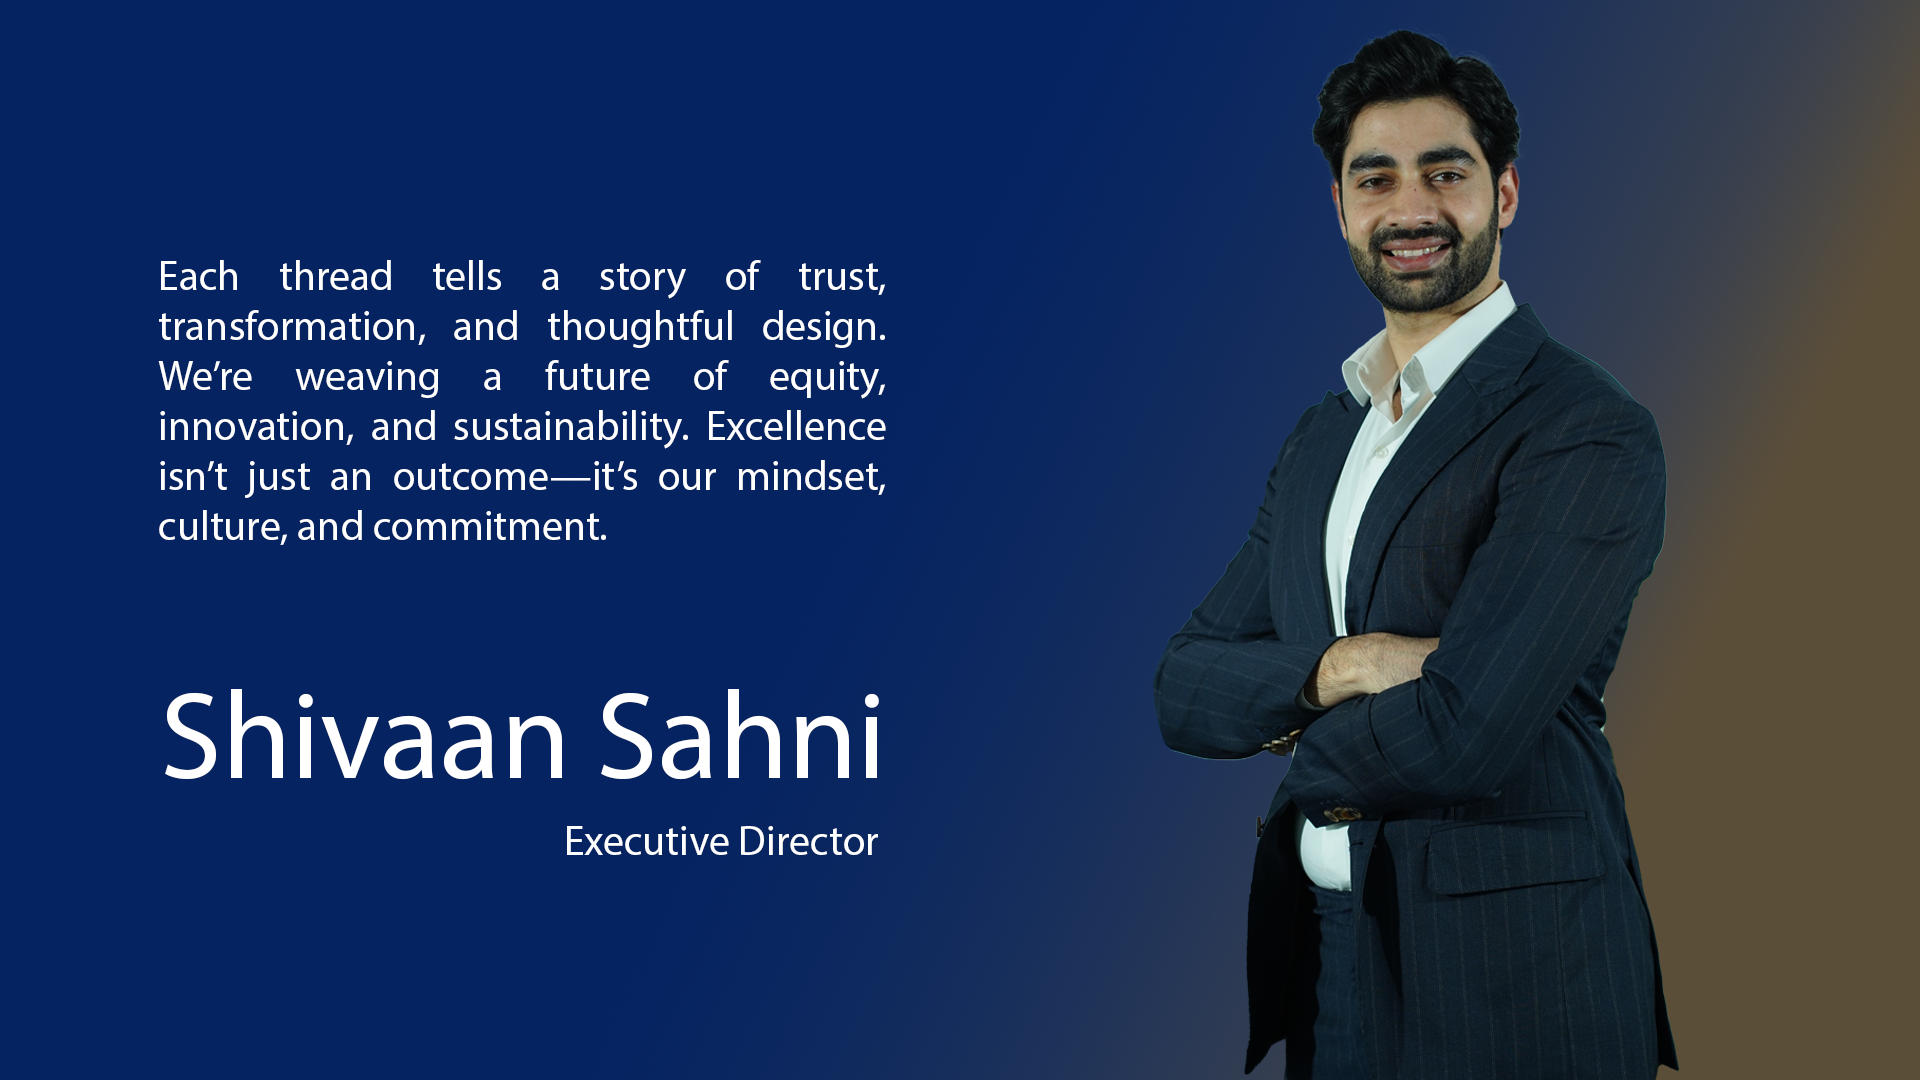
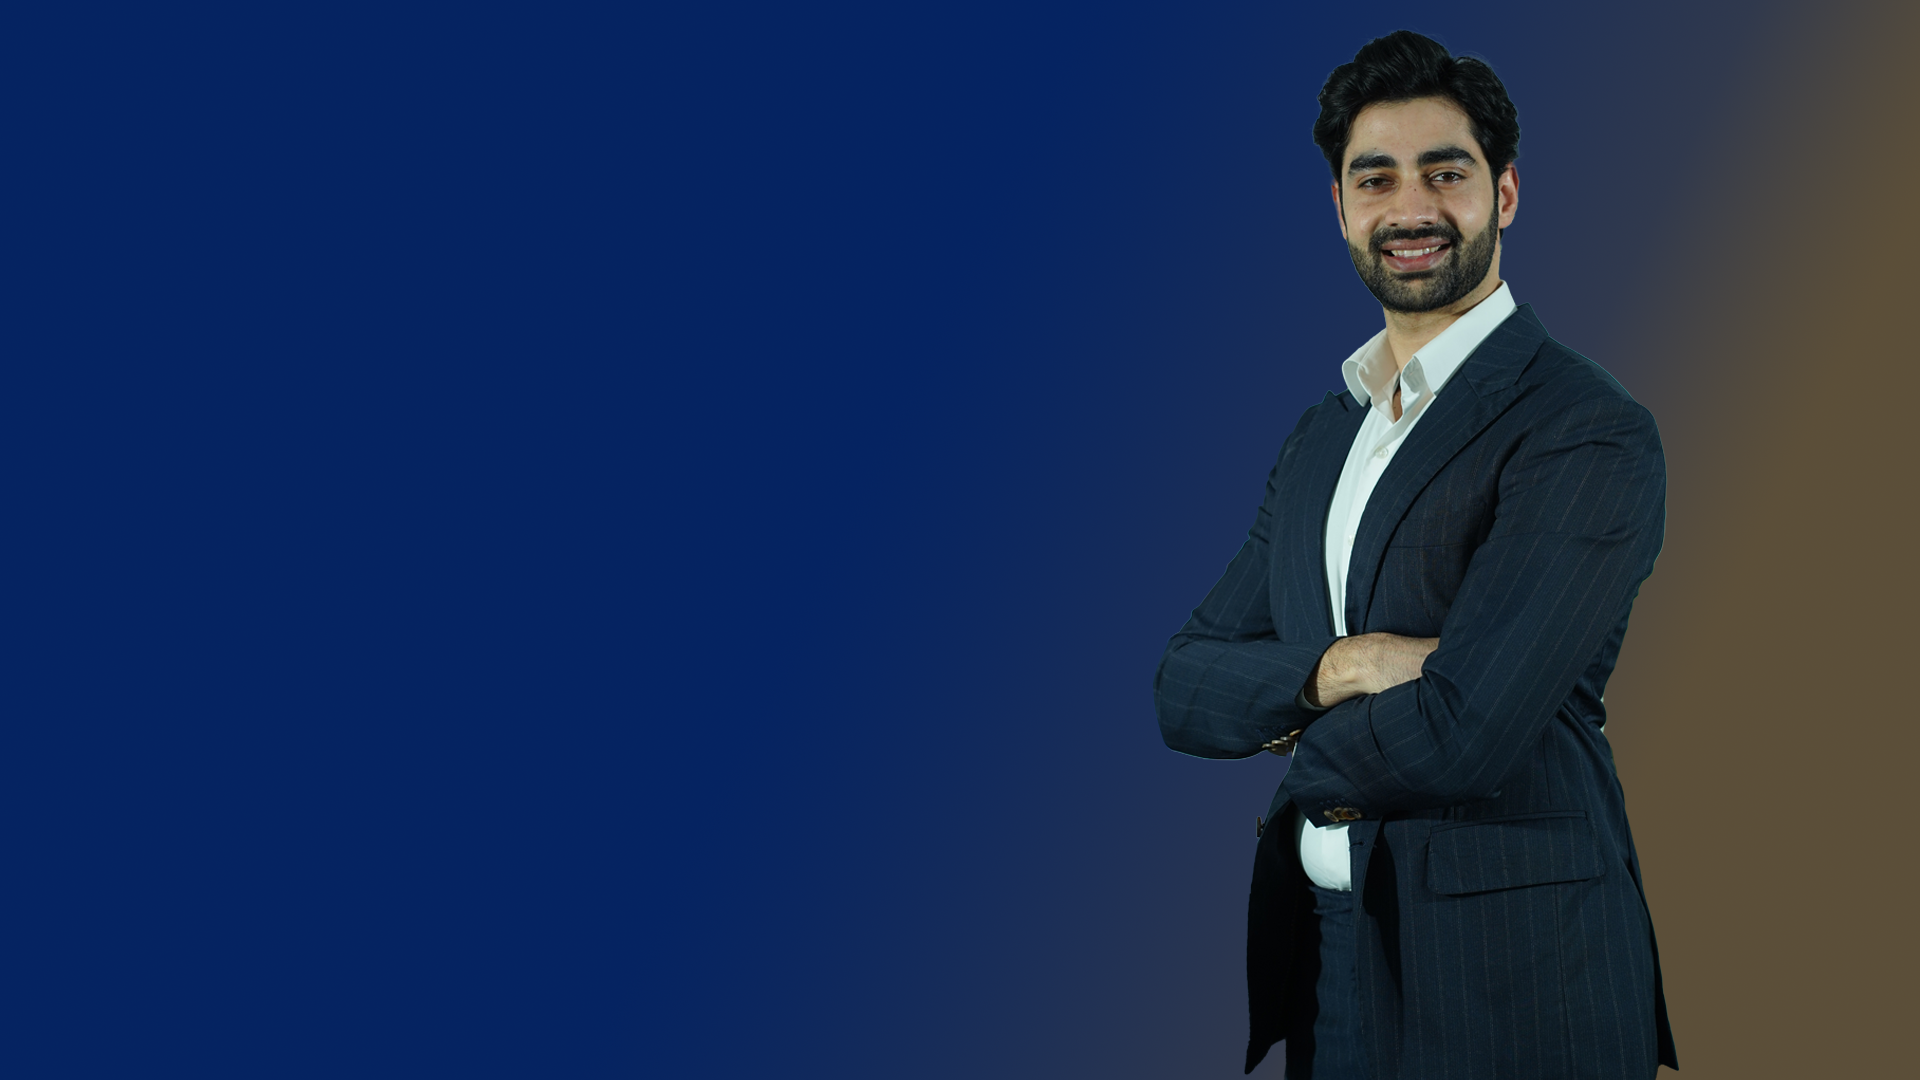
..

Changed region(s): [[0.0625, 0.2444, 0.4688, 0.5194], [0.0625, 0.6417, 0.4688, 0.7333], [0.2812, 0.7639, 0.4688, 0.7944]]

diff --git a/src/pages/ourStory/VisionMission.jsx b/src/pages/ourStory/VisionMission.jsx
@@ -22,7 +22,7 @@ import DirectorBg2 from "../../assets/Founders/bg 02.png";
 import RajanPng from "../../assets/Founders/rajan.png";
 import NavinPng from "../../assets/Founders/navin.png";
 import ShivaanPng from "../../assets/Founders/shivaan.png";
-import SidharthPng from "../../assets/Founders/sidharth1.png";
+import SidharthPng from "../../assets/Founders/Sidharth.png";
 
 const labels = {
     "#vision-values": "VisionValues",
@@ -250,9 +250,6 @@ export default function VisionMission() {
                         </motion.div>
                     </div>
                 </div>
-                {/* <h2 className="w-[90%] mx-auto py-16 px-6 md:px-20 text-3xl sm:text-4xl md:text-5xl text-[#01276a] font-semibold">
-                    Vision & Mission
-                </h2> */}
                 <div
                     className="relative w-full h-[100vh] mt-4 flex items-center justify-center bg-cover bg-center"
                     style={{ backgroundImage: `url(${visionMission})` }}
@@ -333,32 +330,33 @@ export default function VisionMission() {
                 >
                     {directors.map((director, i) => (
                         <SwiperSlide key={i}>
-                            <div className="relative">
-                                {/* background image */}
-                                <img
-                                    src={director.bg}
-                                    alt="Director background"
-                                    className="w-full object-contain"
-                                />
-                                {/* <div className="absolute top-0 left-0 inset-0 bg-transparent w-full h-full">
-                                    <img
-                                        src={director.img}
-                                        alt={director.name}
-                                        className="h-full w-full"
-                                    />
+                            <div
+                                className="w-full bg-contain bg-center"
+                                style={{
+                                    backgroundImage: `url(${director.bg})`,
+                                    aspectRatio: "16/9", // image ratio wise height ...................
+                                }}
+                            >
+                                <div className="bg-transparent w-full h-full flex items-center">
                                     <div
                                         className={`w-[50%] ${
                                             director.id === 2 ? "hidden" : ""
-                                        } absolute top-0 inset-0 py-10 flex items-center`}
+                                        } py-10 flex items-center`}
                                     >
                                         <div className="w-[90%] ml-auto flex flex-col items-end justify-center">
-                                            <div className="2xl:text-2xl xl:text-xl lg:text-lg md:text-md text-[8px] text-white md:font-semibold text-justify leading-relaxed 2xl:w-[80%] xl:w-[90%] lg:w-[95%] w-full">
+                                            <div className="2xl:text-3xl xl:text-2xl md:text-xl sm:text-[12px] text-[8px] text-white text-justify leading-loose 2xl:w-[80%] xl:w-[90%] lg:w-[95%] w-full">
+                                                <span className="2xl:text-4xl xl:text-3xl lg:text-2xl md:text-xl text-md font-semibold">
+                                                    “
+                                                </span>
                                                 {director.message}
+                                                <span className="2xl:text-4xl xl:text-3xl lg:text-2xl md:text-xl text-md font-semibold">
+                                                    ”
+                                                </span>
                                             </div>
-                                            <h1 className="text-white w-full text-end 2xl:text-6xl xl:text-5xl lg:text-4xl md:text-3xl text-lg font-semibold 2xl:mt-20 xl:mt-10 md:mt-5 mt-2">
+                                            <h1 className="text-white w-full text-end 2xl:text-7xl xl:text-6xl lg:text-5xl md:text-4xl text-xl font-semibold 2xl:mt-20 xl:mt-10 md:mt-5 mt-2">
                                                 {director.name}
                                             </h1>
-                                            <h3 className="text-white w-full text-end 2xl:text-2xl xl:text-xl lg:text-lg md:text-md text-[8px] md:font-semibold xl:mt-5 md:mt-2">
+                                            <h3 className="text-white w-full text-end 2xl:text-4xl xl:text-3xl lg:text-2xl md:text-xl text-lg md:font-semibold xl:mt-5 md:mt-2">
                                                 {director.role}
                                             </h3>
                                         </div>
@@ -366,21 +364,27 @@ export default function VisionMission() {
                                     <div
                                         className={`w-[50%] ml-auto ${
                                             director.id === 1 ? "hidden" : ""
-                                        } absolute top-0 inset-0 py-10 flex items-center`}
+                                        } py-10 flex items-center`}
                                     >
                                         <div className="w-[90%] mr-auto flex flex-col items-start justify-center">
-                                            <div className="2xl:text-2xl xl:text-xl lg:text-lg md:text-md text-[8px] text-white md:font-semibold text-justify leading-relaxed 2xl:w-[80%] xl:w-[90%] lg:w-[95%] w-full">
+                                            <div className="2xl:text-3xl xl:text-2xl md:text-xl sm:text-[12px] text-[8px] text-white text-justify leading-loose 2xl:w-[80%] xl:w-[90%] lg:w-[95%] w-full">
+                                                <span className="2xl:text-4xl xl:text-3xl lg:text-2xl md:text-xl text-md font-semibold">
+                                                    “
+                                                </span>
                                                 {director.message}
+                                                <span className="2xl:text-4xl xl:text-3xl lg:text-2xl md:text-xl text-md font-semibold">
+                                                    ”
+                                                </span>
                                             </div>
-                                            <h1 className="text-white 2xl:w-[80%] xl:w-[90%] lg:w-[95%] w-full text-end 2xl:text-6xl xl:text-5xl lg:text-4xl md:text-3xl text-lg font-semibold 2xl:mt-20 xl:mt-10 md:mt-5 mt-2">
+                                            <h1 className="text-white 2xl:w-[80%] xl:w-[90%] lg:w-[95%] w-full text-end 2xl:text-7xl xl:text-6xl lg:text-5xl md:text-4xl text-xl font-semibold 2xl:mt-20 xl:mt-10 md:mt-5 mt-2">
                                                 {director.name}
                                             </h1>
-                                            <h3 className="text-white 2xl:w-[80%] xl:w-[90%] lg:w-[95%] w-full text-end 2xl:text-2xl xl:text-xl lg:text-lg md:text-md text-[8px] md:font-semibold xl:mt-5 md:mt-2">
+                                            <h3 className="text-white 2xl:w-[80%] xl:w-[90%] lg:w-[95%] w-full text-end 2xl:text-4xl xl:text-3xl lg:text-2xl md:text-xl text-lg md:font-semibold xl:mt-5 md:mt-2">
                                                 {director.role}
                                             </h3>
                                         </div>
                                     </div>
-                                </div> */}
+                                </div>
                             </div>
                         </SwiperSlide>
                     ))}
@@ -419,14 +423,61 @@ export default function VisionMission() {
                 >
                     {executiveDirectors.map((director, i) => (
                         <SwiperSlide key={i}>
-                            <div className="relative">
-                                {/* background image */}
-                                <img
-                                    src={director.bg}
-                                    alt="Director background"
-                                    className="w-full object-contain"
-                                />
-                                
+                            <div
+                                className="w-full bg-contain bg-center"
+                                style={{
+                                    backgroundImage: `url(${director.bg})`,
+                                    aspectRatio: "16/9", // image ratio wise height ...................
+                                }}
+                            >
+                                <div className="bg-transparent w-full h-full flex items-center">
+                                    <div
+                                        className={`w-[50%] ${
+                                            director.id === 2 ? "hidden" : ""
+                                        } py-10 flex items-center`}
+                                    >
+                                        <div className="w-[90%] ml-auto flex flex-col items-end justify-center">
+                                            <div className="2xl:text-3xl xl:text-2xl md:text-xl sm:text-[12px] text-[8px] text-white text-justify leading-loose 2xl:w-[80%] xl:w-[90%] lg:w-[95%] w-full">
+                                                <span className="2xl:text-4xl xl:text-3xl lg:text-2xl md:text-xl text-md font-semibold">
+                                                    “
+                                                </span>
+                                                {director.message}
+                                                <span className="2xl:text-4xl xl:text-3xl lg:text-2xl md:text-xl text-md font-semibold">
+                                                    ”
+                                                </span>
+                                            </div>
+                                            <h1 className="text-white w-full text-end 2xl:text-7xl xl:text-6xl lg:text-5xl md:text-4xl text-xl font-semibold 2xl:mt-20 xl:mt-10 md:mt-5 mt-2">
+                                                {director.name}
+                                            </h1>
+                                            <h3 className="text-white w-full text-end 2xl:text-4xl xl:text-3xl lg:text-2xl md:text-xl text-lg md:font-semibold xl:mt-5 md:mt-2">
+                                                {director.role}
+                                            </h3>
+                                        </div>
+                                    </div>
+                                    <div
+                                        className={`w-[50%] ml-auto ${
+                                            director.id === 1 ? "hidden" : ""
+                                        } py-10 flex items-center`}
+                                    >
+                                        <div className="w-[90%] mr-auto flex flex-col items-start justify-center">
+                                            <div className="2xl:text-3xl xl:text-2xl md:text-xl sm:text-[12px] text-[8px] text-white text-justify leading-loose 2xl:w-[80%] xl:w-[90%] lg:w-[95%] w-full">
+                                                <span className="2xl:text-4xl xl:text-3xl lg:text-2xl md:text-xl text-md font-semibold">
+                                                    “
+                                                </span>
+                                                {director.message}
+                                                <span className="2xl:text-4xl xl:text-3xl lg:text-2xl md:text-xl text-md font-semibold">
+                                                    ”
+                                                </span>
+                                            </div>
+                                            <h1 className="text-white 2xl:w-[80%] xl:w-[90%] lg:w-[95%] w-full text-end 2xl:text-7xl xl:text-6xl lg:text-5xl md:text-4xl text-xl font-semibold 2xl:mt-20 xl:mt-10 md:mt-5 mt-2">
+                                                {director.name}
+                                            </h1>
+                                            <h3 className="text-white 2xl:w-[80%] xl:w-[90%] lg:w-[95%] w-full text-end 2xl:text-4xl xl:text-3xl lg:text-2xl md:text-xl text-lg md:font-semibold xl:mt-5 md:mt-2">
+                                                {director.role}
+                                            </h3>
+                                        </div>
+                                    </div>
+                                </div>
                             </div>
                         </SwiperSlide>
                     ))}
